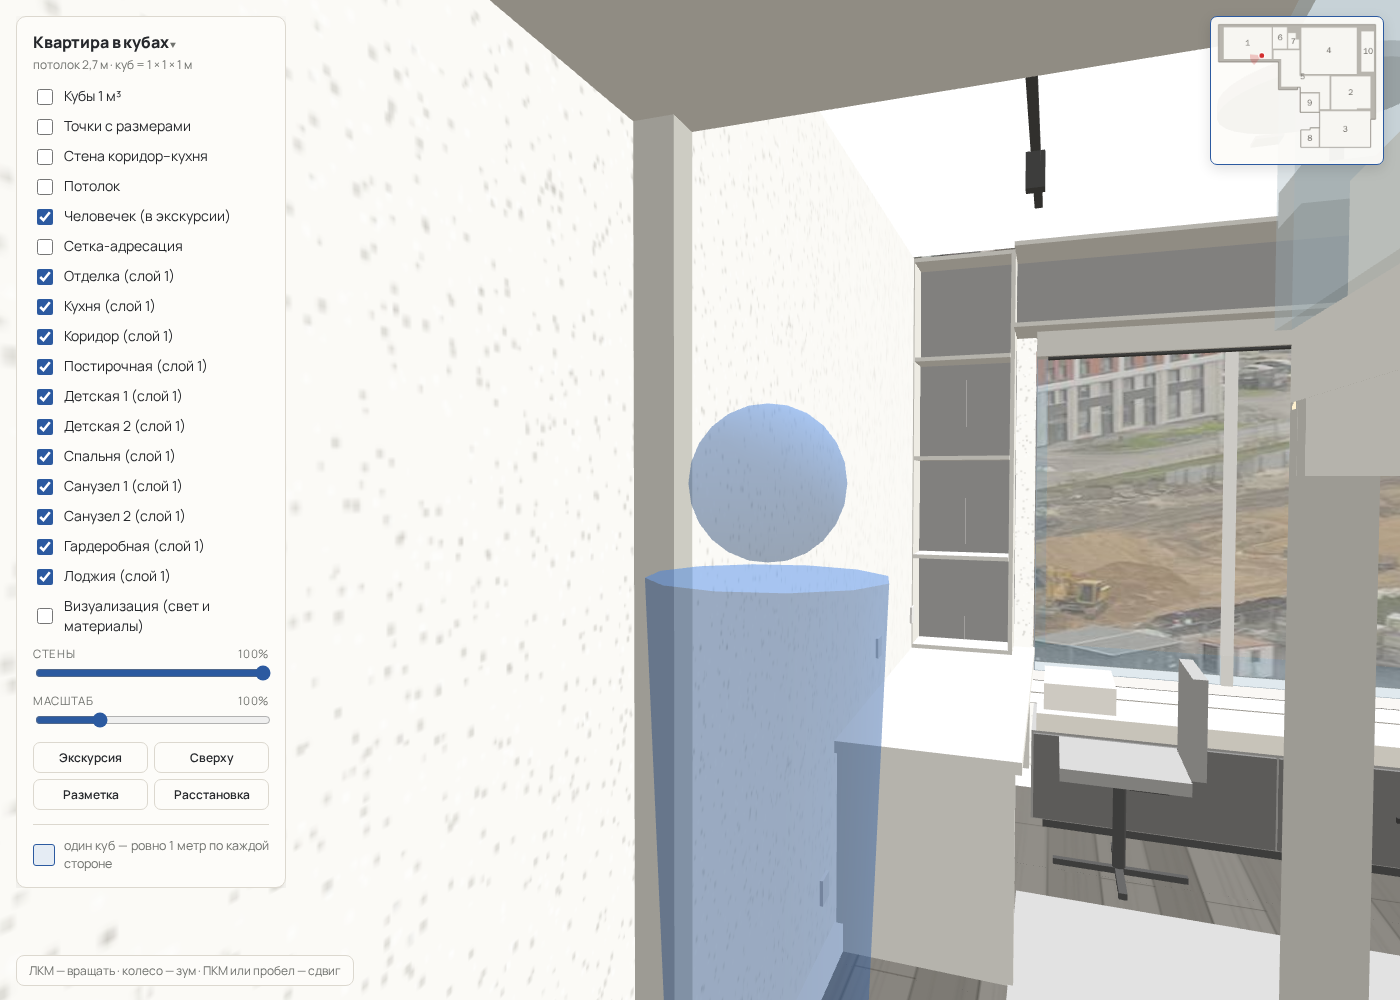
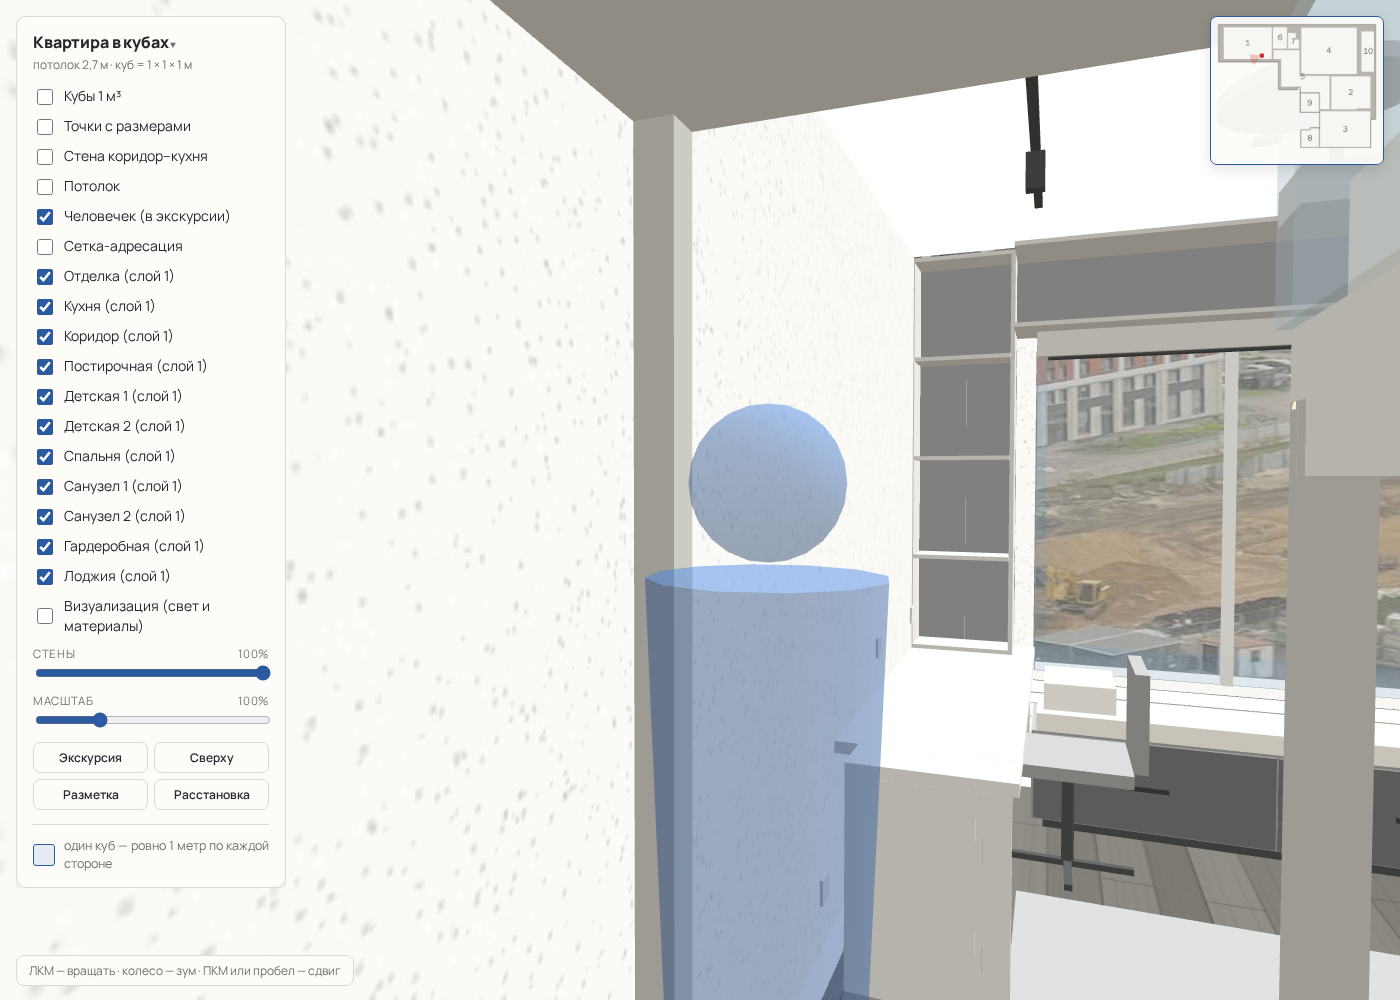
room1: desk 2.14 past the bed post, pedestal at the end, chair tucked under the desk

Changed region(s): [[0.5836, 0.651, 0.8907, 1.0], [0.0, 0.992, 0.0307, 1.0]]

diff --git a/items.js b/items.js
@@ -115,12 +115,13 @@ const PHYS={}; // id → boxes
     // ---- kids room 1 (tasks/room1-kid/README.md, marks M1–M30) ----
     // Room box: x 0.896–5.445, z 1.874–4.864. Wall-mounted boxes sit 0.02–0.03 in front of the wall so they show over the wallpaper (0.015).
     {id:'kidbed',type:'кровать-чердак с лестницей-комодом и полкой хранения',room:1,layer:'kid',pos:[2.835,1.884],rot:0,size:[2.6,2.6,2.97],fixed:'wall',build:kidBedBuild(2.0,mat.wdoor,mat.cushion)},
-    {id:'kiddesk',type:'стол прямой 1.94 × 0.60 вдоль южной стены, от западной стены до стойки кровати; стеллаж у окна стоит на его западном краю',room:1,layer:'kid',pos:[0.896,4.264],rot:0,size:[1.939,0.72,0.60],fixed:'wall',
-     build(b){ b(0,1.939,0.68,0.72,0,0.60,mat.kbody); b(0.02,0.04,0,0.68,0.02,0.58,mat.kbody); b(1.899,1.919,0,0.68,0.02,0.58,mat.kbody); }}, // worktop, end panels (the pedestal carries the east half)
-    {id:'kidped',type:'тумба с 3 ящиками под столом у восточного торца, фасады к комнате',room:1,layer:'kid',pos:[2.375,4.364],rot:0,size:[0.42,0.68,0.50],
-     build(b){ b(0.02,0.40,0,0.68,0.02,0.50,mat.kbody);
-       [0.06,0.26,0.46].forEach(y=>{ b(0.02,0.40,y,y+0.18,0,0.02,mat.wdoor); b(0.135,0.285,y+0.11,y+0.13,-0.015,0,mat.knob); }); }},
-    {id:'kidchair',type:'рабочее кресло, регулируемое, лицом к столу',room:1,layer:'kid',pos:[1.55,4.20],rot:270,size:[0.55,0.85,0.55],
+    {id:'kiddesk',type:'стол прямой 2.14 × 0.60 вдоль южной стены, от западной стены за стойку кровати (вырез под стойку); стеллаж у окна стоит на его западном краю',room:1,layer:'kid',pos:[0.896,4.264],rot:0,size:[2.139,0.72,0.60],fixed:'wall',
+     build(b){ b(0,1.939,0.68,0.72,0,0.60,mat.kbody); b(1.939,2.139,0.68,0.72,0,0.505,mat.kbody);   // worktop; past the bed post (x 2.835–2.915, z 4.774–4.854) only the front 0.505
+       b(0.02,0.04,0,0.68,0.02,0.58,mat.kbody); b(2.119,2.139,0,0.68,0.02,0.505,mat.kbody); }},     // end panels (the pedestal carries the east end)
+    {id:'kidped',type:'тумба с 3 ящиками под столом у самого восточного края, глубина 0.40 — не упирается в стойку кровати; фасады к комнате',room:1,layer:'kid',pos:[2.615,4.364],rot:0,size:[0.42,0.68,0.40],
+     build(b){ b(0.02,0.40,0,0.68,0.02,0.40,mat.kbody);
+       [0.06,0.26,0.46].forEach(y=>b(0.02,0.40,y,y+0.18,0,0.02,mat.wdoor)); }},                   // push-to-open fronts, no handles (the chair sits right beside)
+    {id:'kidchair',type:'рабочее кресло, регулируемое, лицом к столу, сиденье на 0.08 под столешницей, вплотную к лежанке',room:1,layer:'kid',pos:[1.55,4.39],rot:270,size:[0.55,0.85,0.55],
      build(b,g){
        b(0.05,0.50,0.42,0.47,0.05,0.50,mat.cushion); b(0.50,0.55,0.47,0.85,0.08,0.47,mat.cushion);   // seat and back; rot 270 puts the back on the north side
        const c=new THREE.Mesh(new THREE.CylinderGeometry(0.025,0.025,0.39,10),mat.knob); c.position.set(0.275,0.225,0.275); g.add(c); // gas lift

diff --git a/tools/check.js b/tools/check.js
@@ -360,10 +360,11 @@ const { chromium } = require('playwright');
     const sofaTop = bb(ITEM_GROUPS.kidsofa).max.y;
     const colored = []; kids.forEach(it => ITEM_GROUPS[it.id].traverse(o => { if (!o.isMesh || o.material.isMeshBasicMaterial || o.material.transparent) return; const c = o.material.color; if (Math.max(c.r, c.g, c.b) - Math.min(c.r, c.g, c.b) > 0.08 && !colored.includes(it.id)) colored.push(it.id); }));
     const desk = bb(ITEM_GROUPS.kiddesk), seat = bb(ITEM_GROUPS.windowseat1), shelfN = bb(ITEM_GROUPS.kidshelf), shelfS = bb(ITEM_GROUPS.kidshelf2), win = PLAN.windows[0];
-    const deskStraight = desk.max.z - desk.min.z <= 0.61 && desk.max.z > 4.86 && desk.max.x - desk.min.x > 1.9;
+    const deskStraight = desk.max.z - desk.min.z <= 0.61 && desk.max.z > 4.86 && desk.max.x - desk.min.x > 2.1;
+    const chair = bb(ITEM_GROUPS.kidchair), ped = bb(ITEM_GROUPS.kidped), chairIn = chair.max.z - desk.min.z >= 0.07, pedEnd = desk.max.x - ped.max.x < 0.025;
     const seatOk = seat.min.z >= shelfN.max.z - 0.001 && seat.max.z <= desk.min.z + 0.001 && seat.max.x <= 1.52;
     const windowFree = shelfN.max.z <= win.z0 - 0.09 && shelfS.min.z >= win.z1 + 0.09;
-    return { n: kids.length, inside, hitPlat, warn, tops, sofaTop, bedPos: ITEM_GROUPS.kidbed.userData.pos, colored, deskStraight, seatOk, windowFree };
+    return { n: kids.length, inside, hitPlat, warn, tops, sofaTop, bedPos: ITEM_GROUPS.kidbed.userData.pos, colored, deskStraight, seatOk, windowFree, chairIn, pedEnd };
   });
   if (kid.n < 24) problems.push('комната 1: предметов слоя kid ' + kid.n + ' (< 24)');
   if (kid.inside.length) problems.push('комната 1: предметы вне помещения: ' + kid.inside.join(', '));
@@ -374,6 +375,7 @@ const { chromium } = require('playwright');
   if (Math.abs(kid.bedPos[0] + 1.4 - 4.235) > 1e-9) problems.push('комната 1: платформа кровати сдвинулась: pos.x=' + kid.bedPos[0]);
   if (kid.colored.length) problems.push('комната 1: цветные материалы у ' + kid.colored.join(', '));
   if (!kid.deskStraight) problems.push('комната 1: стол не прямой вдоль южной стены');
+  if (!kid.chairIn || !kid.pedEnd) problems.push('комната 1: кресло не задвинуто под стол или тумба не у края стола');
   if (!kid.seatOk) problems.push('комната 1: лежанка не между стеллажом и столом у окна');
   if (!kid.windowFree) problems.push('комната 1: стеллажи не отступают от окна на 0.10');
   // screenshots of room 1: plan, from the door, from the desk to the gallery wall, from under the bed to the window

diff --git a/tasks/room1-kid/README.md b/tasks/room1-kid/README.md
@@ -389,3 +389,7 @@ issue: —
 - Лежанка у окна `windowseat1` как в комнате 2: 1.89 × 0.60 между стеллажом и столом (z 2.374–4.264), 2 глубоких ящика
   фасадами в комнату, матрасик 0.45–0.53, две подушки у стеллажей. Радиатор под окном теперь под лежанкой —
   вентрешётку в её крышке добавить при детализации.
+- Правка 2: стол 2.14 — на 0.20 длиннее, заходит за стойку кровати (x 2.835–2.915), за стойкой столешница только
+  на глубину 0.505; тумба у самого восточного края (x 2.615–3.035), глубина 0.40, фасады push-to-open без ручек;
+  кресло вплотную к лежанке (x 1.55–2.10), сиденье на 0.08 под столешницей. Кресло между лежанкой и тумбой даёт
+  «проход» < 0.7 по правилам расстановки, поэтому оно поставлено так, чтобы по z не пересекаться с тумбой.
